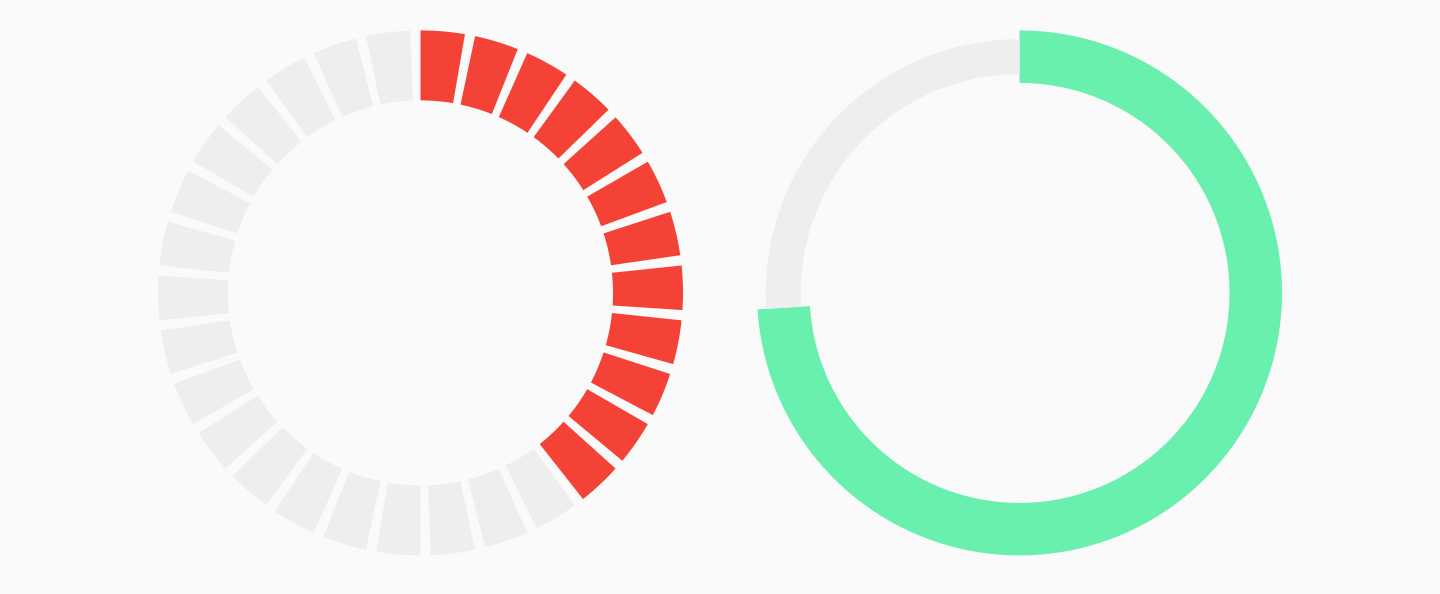
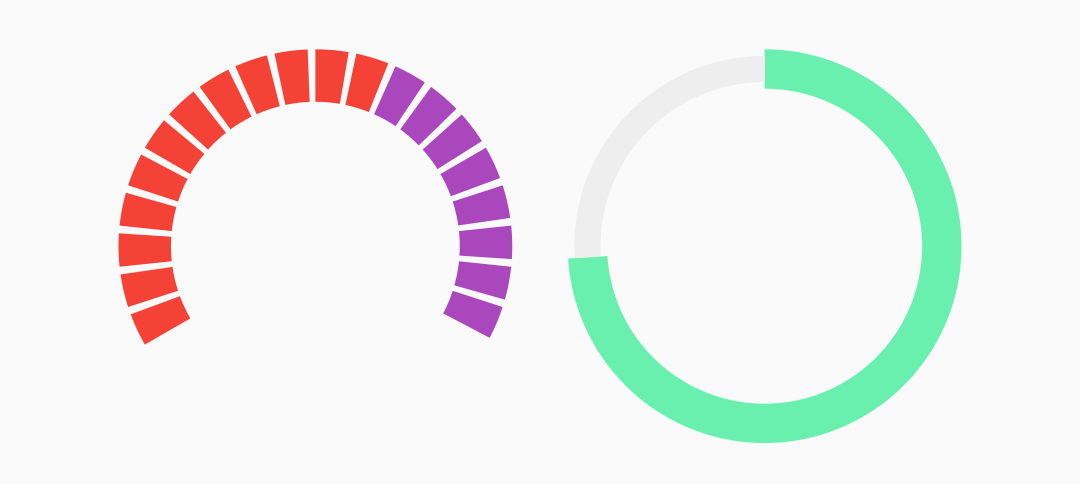
Updated docs for v0.2.3+6

diff --git a/lib/src/circular_step_progress_indicator.dart b/lib/src/circular_step_progress_indicator.dart
@@ -1,7 +1,5 @@
 library circular_step_progress_indicator;
 
-import 'dart:math';
-
 import 'package:flutter/material.dart';
 import 'dart:math' as math;
 
@@ -204,7 +202,7 @@ class CircularStepProgressIndicator extends StatelessWidget {
   /// [stepSize] and [customStepSize]
   double get maxDefinedSize {
     if (customStepSize == null) {
-      return max(stepSize, max(selectedStepSize ?? 0, unselectedStepSize ?? 0));
+      return math.max(stepSize, math.max(selectedStepSize ?? 0, unselectedStepSize ?? 0));
     }
 
     // When customSize defined, compute and return max possible size

diff --git a/lib/src/step_progress_indicator.dart b/lib/src/step_progress_indicator.dart
@@ -1,7 +1,6 @@
 library step_progress_indicator;
 
 import 'dart:math';
-
 import 'package:flutter/material.dart';
 
 /// (Linear) Progress indicator made of a series of steps

diff --git a/README.md b/README.md
@@ -1,7 +1,7 @@
 # Step Progress Indicator
 <p>
-  <img src="https://img.shields.io/badge/version-0.2.2%2B5-blue.svg" />
-  <img src="https://img.shields.io/badge/flutter-v1.12.13%2Bhotfix.9-blue.svg" />
+  <img src="https://img.shields.io/badge/version-0.2.3%2B6-blue.svg" />
+  <img src="https://img.shields.io/badge/flutter-v1.17.0-blue.svg" />
   <a href="https://github.com/SandroMaglione">
     <img alt="GitHub: SandroMaglione" src="https://img.shields.io/github/followers/SandroMaglione?label=Follow&style=social" target="_blank" />
   </a>
@@ -27,7 +27,7 @@ Install and import the package. Then just customize its parameters.
 dependencies:
   flutter:
     sdk: flutter
-  step_progress_indicator: ^0.2.2+5
+  step_progress_indicator: ^0.2.3+6
 ```
 ---
 
@@ -220,29 +220,31 @@ Row(
 Row(
     mainAxisAlignment: MainAxisAlignment.spaceEvenly,
     children: <Widget>[
-        CircularStepProgressIndicator(
-            totalSteps: 30,
-            currentStep: 12,
-            stepSize: 20,
-            selectedColor: Colors.red,
-            unselectedColor: Colors.grey[200],
-            padding: math.pi / 80,
-            width: 150,
-            height: 150,
-        ),
-        CircularStepProgressIndicator(
-            totalSteps: 100,
-            currentStep: 74,
-            stepSize: 10,
-            selectedColor: Colors.greenAccent,
-            unselectedColor: Colors.grey[200],
-            padding: 0,
-            width: 150,
-            height: 150,
-            selectedStepSize: 15,
-        ),
+    CircularStepProgressIndicator(
+        totalSteps: 20,
+        currentStep: 12,
+        stepSize: 20,
+        selectedColor: Colors.red,
+        unselectedColor: Colors.purple[400],
+        padding: math.pi / 80,
+        width: 150,
+        height: 150,
+        startingAngle: -math.pi * 2 / 3,
+        arcSize: math.pi * 2 / 3 * 2,
+    ),
+    CircularStepProgressIndicator(
+        totalSteps: 100,
+        currentStep: 74,
+        stepSize: 10,
+        selectedColor: Colors.greenAccent,
+        unselectedColor: Colors.grey[200],
+        padding: 0,
+        width: 150,
+        height: 150,
+        selectedStepSize: 15,
+    ),
     ],
-)
+),
 ```
 
 #### CircularStepProgressIndicator - Example 3
@@ -323,7 +325,8 @@ CircularStepProgressIndicator(
 | height   | `double` | Height of the indicator's container. | - |
 | width   | `double` | Width of the indicator's container. | - |
 | padding         	| `double` | Spacing between each step. | `math.pi / 20` |
-| startingAngle      | `double` | Angle in which is placed the starting point of the indicator. | `-math.pi / 2` |
+| startingAngle    | `double` | Angle in which is placed the starting point of the indicator.| 0 |
+| arcSize      | `double` | Angle in radiants which represents the size of the arc used to display the indicator. | `math.pi * 2` |
 | fallbackHeight         	| `double` | Height of the indicator's container in case the parent height has no size limit i.e. `double.infinity`. | 100.0 |
 | fallbackWidth         	| `double` | Width of the indicator's container in case the parent width has no size limit i.e. `double.infinity`. | 100.0 |
 
@@ -337,6 +340,7 @@ Feel free to open a Pull request if you would like to contribute to the project.
 If you would like to have a new feature implemented, just write a new issue.
 
 ## Versioning
+- v0.2.3+6 - 20 May 2020
 - v0.2.2+5 - 26 April 2020
 - v0.2.1+4 - 25 February 2020
 - v0.2.0+3 - 24 February 2020
@@ -344,4 +348,4 @@ If you would like to have a new feature implemented, just write a new issue.
 - v0.1.0+1 - 23 January 2020
 
 ## License
-GNU General Public License v3.0, see the [LICENSE.md](https://github.com/SandroMaglione/step-progress-indicator/blob/master/LICENSE) file for details.
+MIT License, see the [LICENSE.md](https://github.com/SandroMaglione/step-progress-indicator/blob/master/LICENSE) file for details.

diff --git a/CHANGELOG.md b/CHANGELOG.md
@@ -1,3 +1,8 @@
+## [0.2.3+6] - 20 May 2020
+- Added `arcSize` property to `CircularStepProgressIndicator` that allows you to draw semi-circle indicators ([#3](https://github.com/SandroMaglione/step-progress-indicator/issues/3))
+- Adjusted default `startingAngle` to 0 instead of `-math.pi / 2` (**breaking change**)
+- Fixed imports and small issues
+
 ## [0.2.2+5] - 26 April 2020
 - Added material ripple effect on step tap (Thanks to [@rodineijf](https://github.com/rodineijf) for his contribution ([#1](https://github.com/SandroMaglione/step-progress-indicator/pull/1)))
 - Implemented `roundedEdges` property to add rounded edge corners to first and last step of the indicator ([#2](https://github.com/SandroMaglione/step-progress-indicator/issues/2))
@@ -25,4 +30,4 @@
 - [New tutorial article](http://www.sandromaglione.com/blog/2020/01/24/step-progress-indicator-flutter-package-tutorial/)
 
 ## [0.1.0+1] - 23 January 2020
-Initial release.
+Initial release
